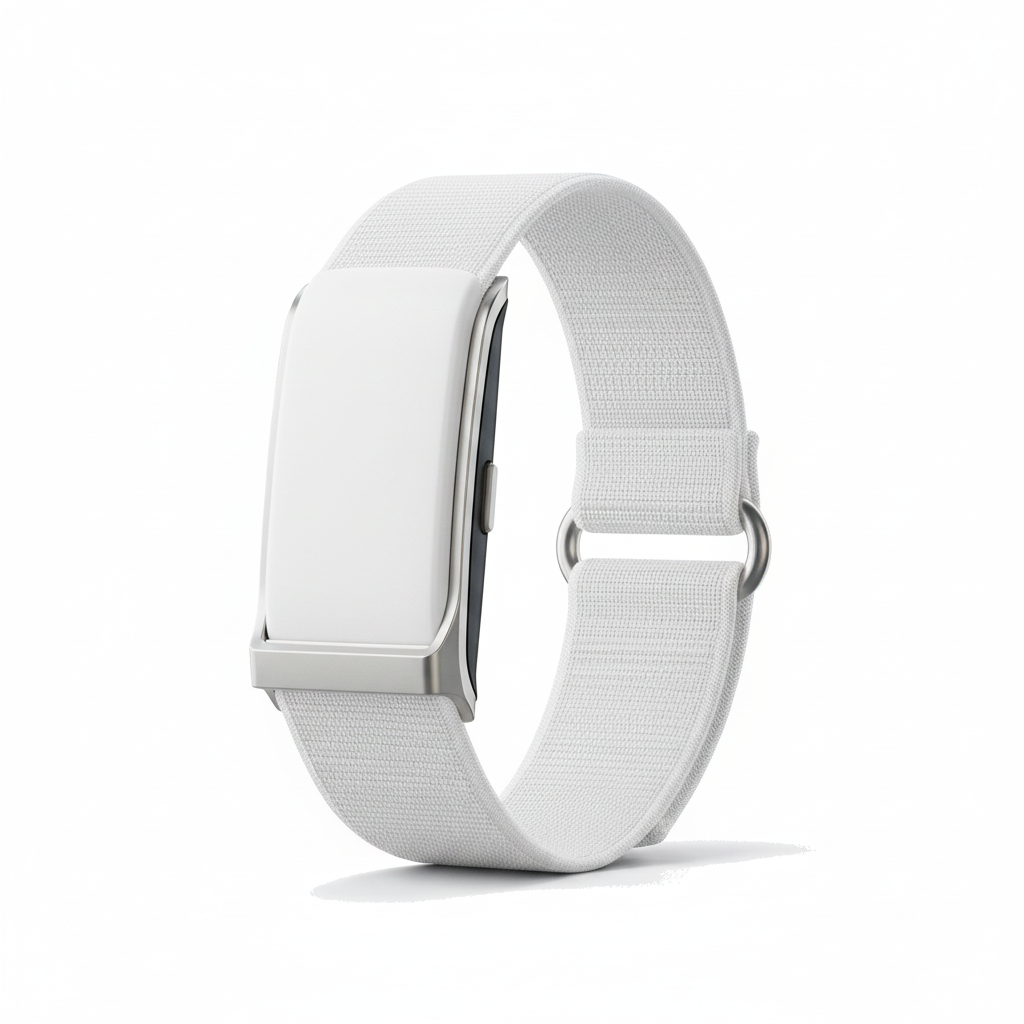
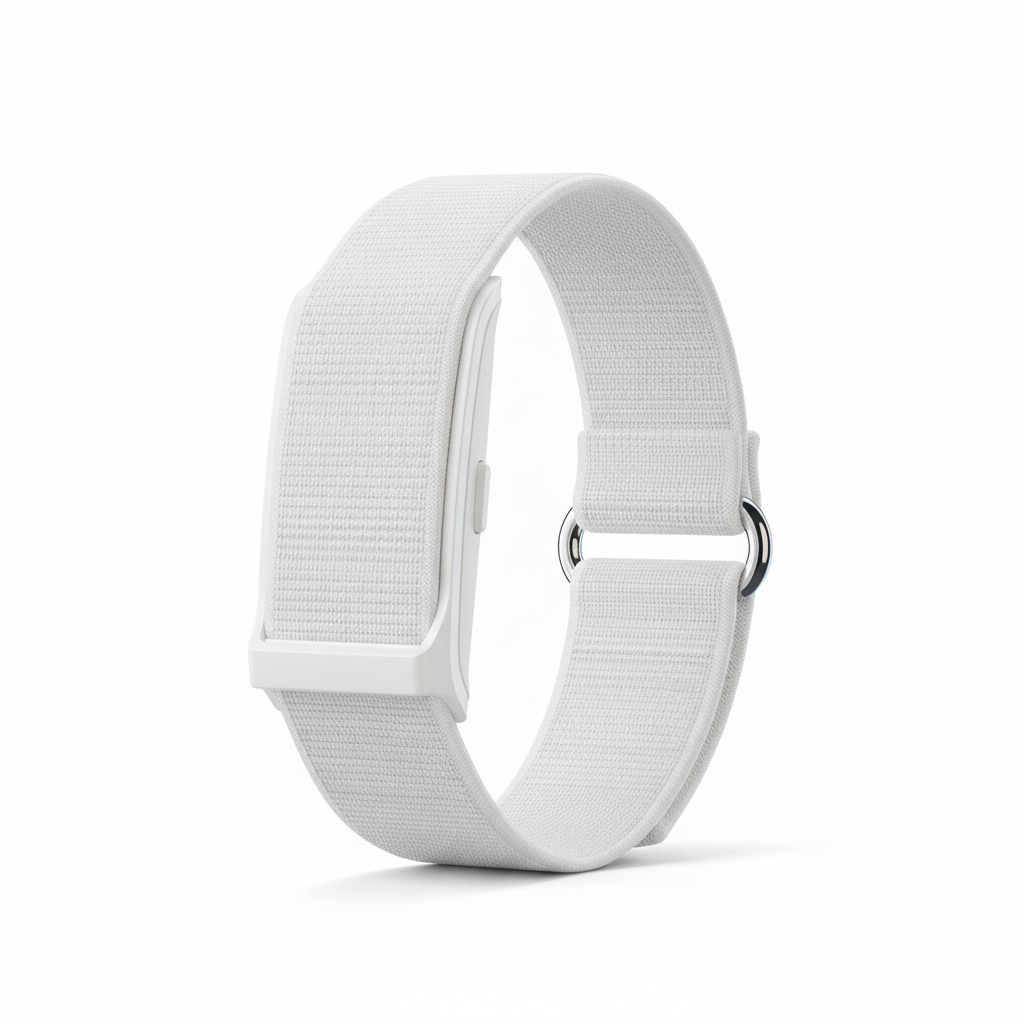
feat(smartband): síntesis con IA de textura tejida realista para smartband tela blanca

diff --git a/public/sw.js b/public/sw.js
@@ -1,7 +1,7 @@
 // ==============================================================================
-// QZ-HUB SERVICE WORKER — v4.4.6 (SMARTBAND FABRIC WHITE PURE AI SYNTHESIS)
+// QZ-HUB SERVICE WORKER — v4.4.7 (SMARTBAND FABRIC WHITE 9.5 TEXTURE)
 // ==============================================================================
-const CACHE_NAME = 'qz-hub-v4.4.6-smartband-fabric-white-ai-pure';
+const CACHE_NAME = 'qz-hub-v4.4.7-smartband-fabric-white-raking-texture';
 const ASSETS_TO_CACHE = [
   '/',
   '/index.html',
